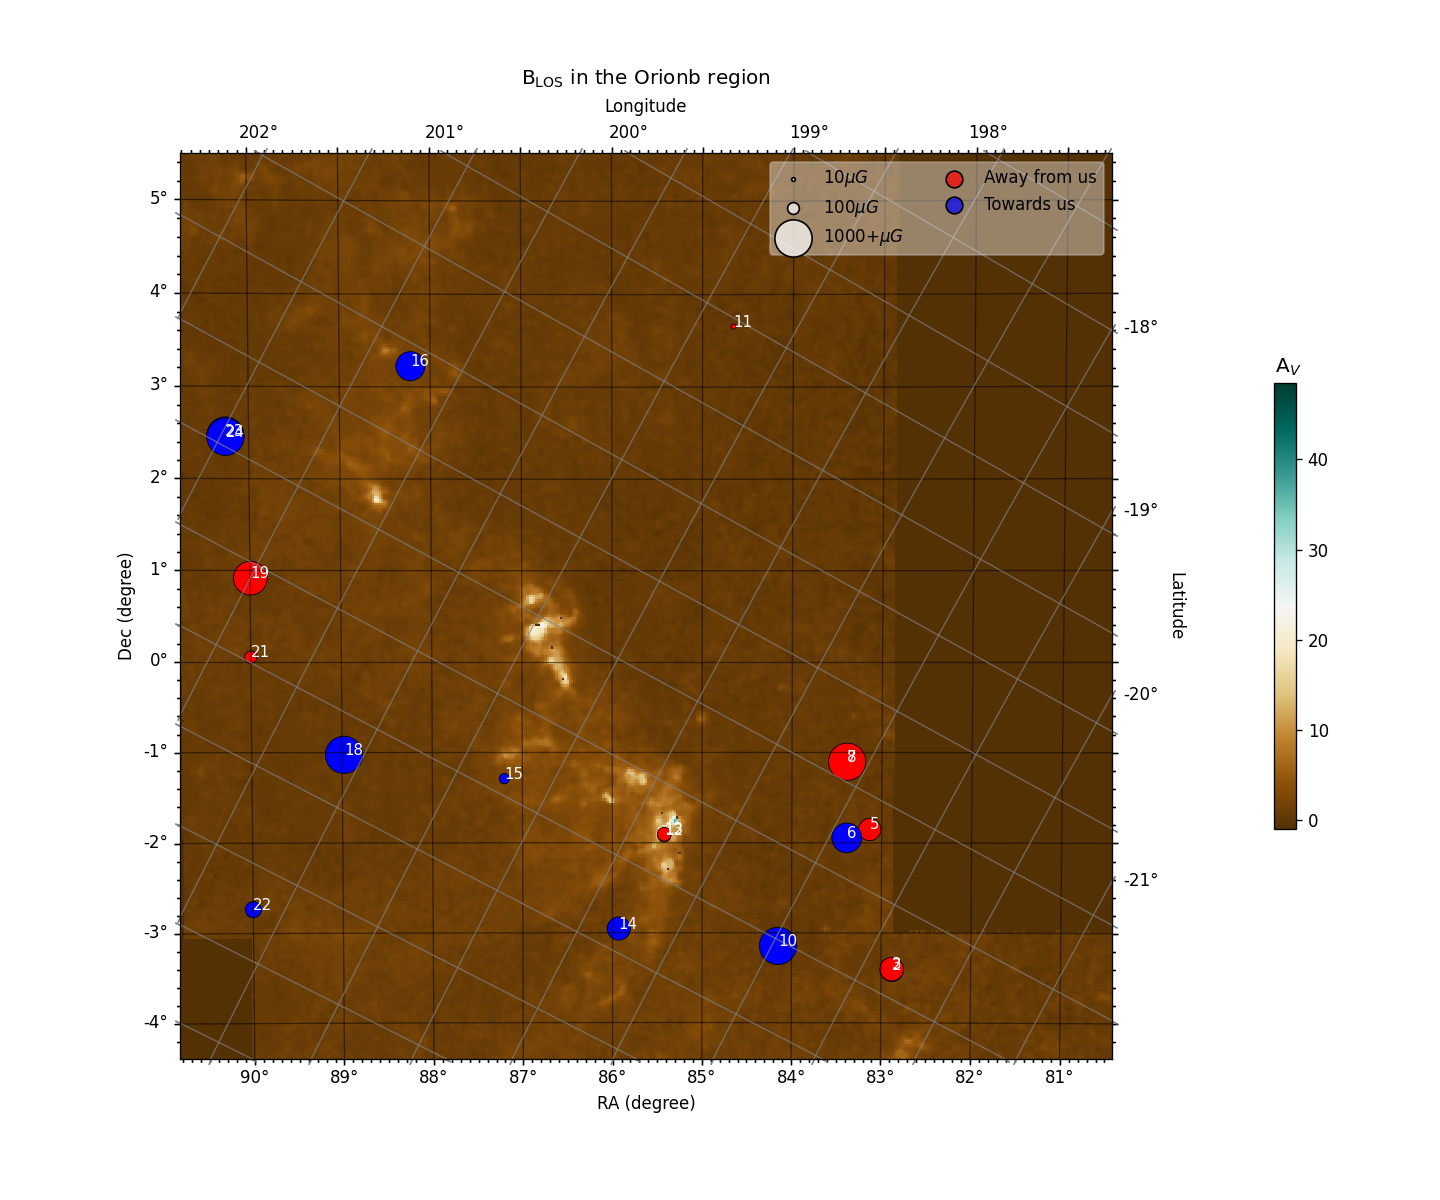
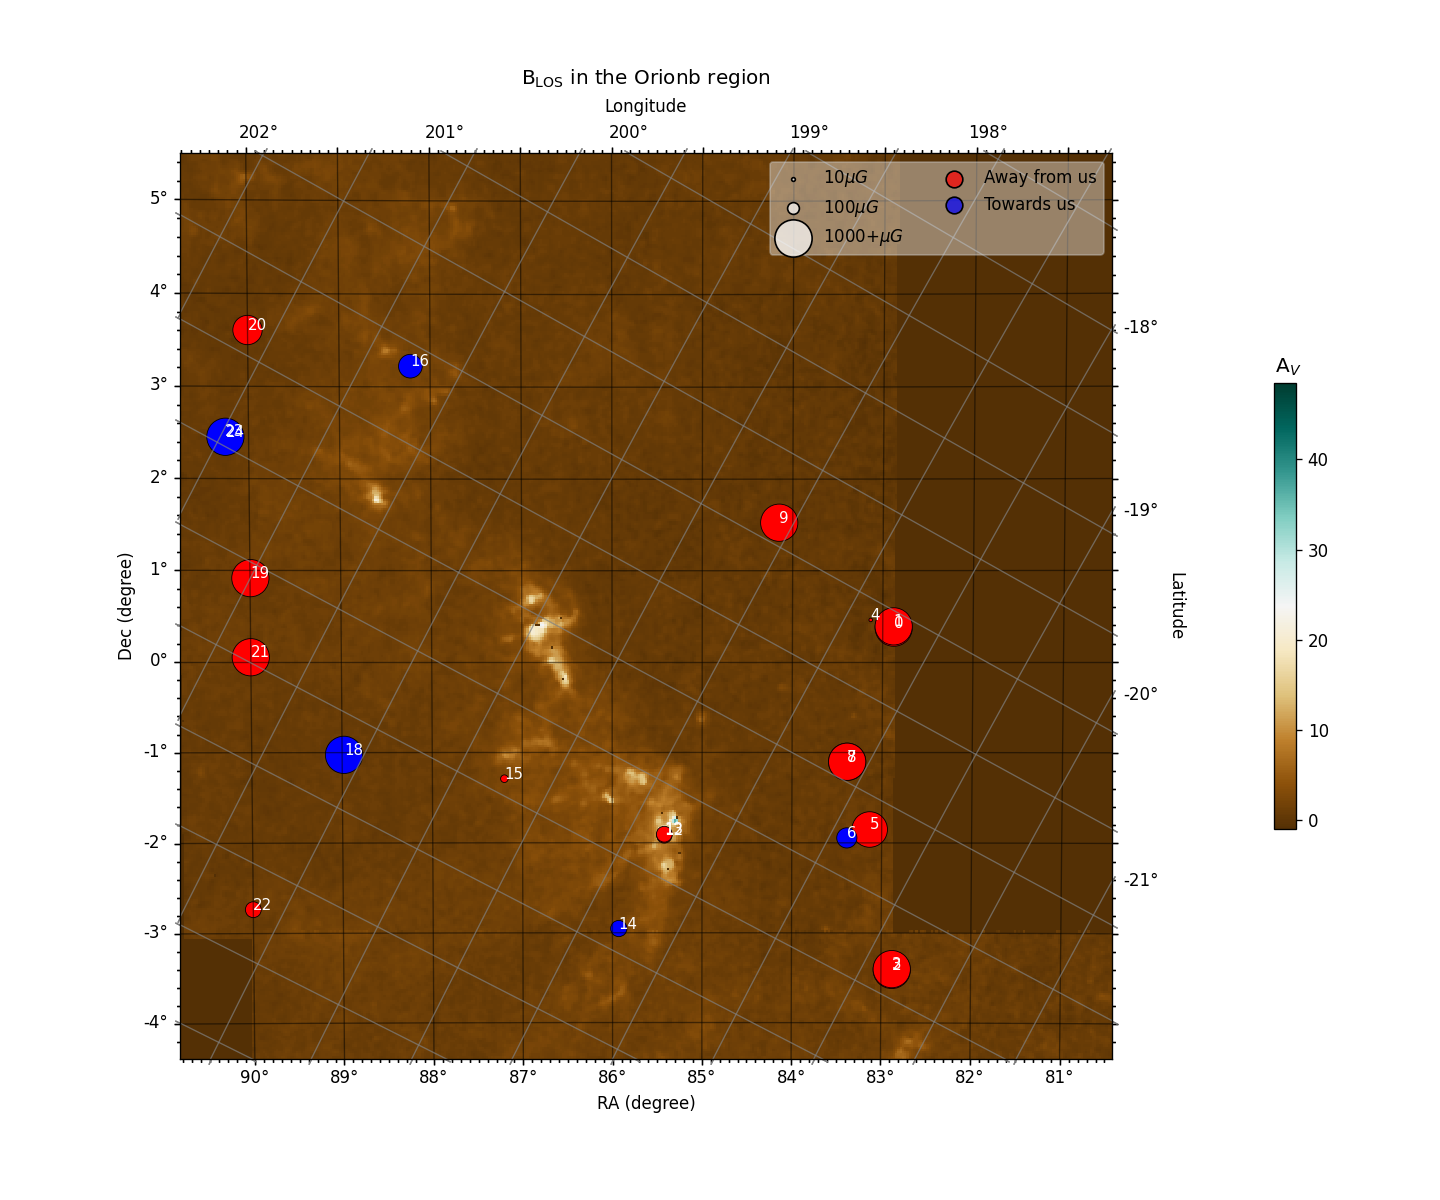
Caught and resolved a number of logical bugs arrising from my prior refactoring.

diff --git a/MolecularClouds/03dDetermineRefPoints - HighExtinction.py b/MolecularClouds/03dDetermineRefPoints - HighExtinction.py
@@ -51,8 +51,10 @@ cloudJeansLength = regionOfInterest.jeanslength  # [pc]
 minDiff = np.degrees(np.arctan(cloudJeansLength / cloudDistance))  # [deg]
 
 minDiff_pix = minDiff / abs(hdu.header['CDELT1'])
-NDelt = config.pixelCheckMultiplier * math.ceil(minDiff_pix)  # Round up
-print("\t-A region around the point has been defined to the suggested {} pixels".format(NDelt))
+NDeltNear = config.nearExtinctionMultiplier * math.ceil(minDiff_pix)  # Round up
+NDeltFar = config.farExtinctionMultiplier * math.ceil(minDiff_pix)  # Round up
+print("\t-A close region around the point has been defined to the suggested {} pixels".format(NDeltNear))
+print("\t-A far region around the point has been defined to the suggested {} pixels".format(NDeltFar))
 
 # Choose the minimum extinction value which you want to correspond to an "on" position
 highExtinctionThreshold = config.highExtinctionThreshMultiplier * Av_threshold
@@ -63,15 +65,15 @@ print("\t-A region of high extinction has been defined to the suggested suggeste
 # -------- For each potential reference point
 nearHighExtinctionRegion = []
 farHighExtinctionRegion = []
-for i in list(AllPotentialRefPoints.head().index):
+for i in list(AllPotentialRefPoints.index):
     idNum = AllPotentialRefPoints['ID#'][i]
     px = AllPotentialRefPoints['Extinction_Index_x'][i]
     py = AllPotentialRefPoints['Extinction_Index_y'][i]
 
     # ---- Find the extinction range for the given point
-    if rjl.nearHighExtinction(px, py, hdu.data, NDelt, highExtinctionThreshold):
+    if rjl.nearHighExtinction(px, py, hdu.data, NDeltNear, highExtinctionThreshold):
         nearHighExtinctionRegion.append(i + 1)
-    if not rjl.nearHighExtinction(px, py, hdu.data, NDelt * 2, highExtinctionThreshold):
+    if not rjl.nearHighExtinction(px, py, hdu.data, NDeltFar, highExtinctionThreshold):
         farHighExtinctionRegion.append(i + 1)
     # ---- Find the extinction range for the given point.
 # -------- For each potential reference point.

diff --git a/MolecularClouds/LocalLibraries/FindOptimalRefPoints.py b/MolecularClouds/LocalLibraries/FindOptimalRefPoints.py
@@ -165,6 +165,8 @@ class FindOptimalRefPoints:
         DataNoRef.to_csv(
             os.path.join(config.dir_root, config.dir_fileOutput, config.prefix_OptRefPoints + config.cloud + '.txt'))
 
+        stabilityTrendGraph(DataNoRef, saveFigurePath)
+
         TotalNumPoints = len(matchedRMExtinctionData)
         '''
         We can now determine the optimal number of reference points using the calculated BLOS values as a function of 
@@ -190,14 +192,15 @@ class FindOptimalRefPoints:
             Optimal_NumRefPoints_secondMode_percent = (len(
                 np.where(Optimal_NumRefPoints_Selection == self.Optimal_NumRefPoints_secondMode)[0]) / len(
                 Optimal_NumRefPoints_Selection)) * 100
+            print('\t - {} appears second most often ({:.0f}%) as the optimal number of reference points'.format(
+                self.Optimal_NumRefPoints_secondMode, Optimal_NumRefPoints_secondMode_percent))
 
         self.Optimal_NumRefPoints_max = max(Optimal_NumRefPoints_Selection)
         self.Optimal_NumRefPoints_min = min(Optimal_NumRefPoints_Selection)
 
         print('\t - {} appears most often ({:.0f}%) as the optimal number of reference points'.format(
             self.Optimal_NumRefPoints_firstMode, Optimal_NumRefPoints_firstMode_percent))
-        print('\t - {} appears second most often ({:.0f}%) as the optimal number of reference points'.format(
-            self.Optimal_NumRefPoints_secondMode, Optimal_NumRefPoints_secondMode_percent))
+
         print('\t - {} is the maximum optimal number of reference points.'.format(
             self.Optimal_NumRefPoints_max))
         print('\t - {} is the minimum optimal number of reference points.'.format(

diff --git a/MolecularClouds/LocalLibraries/config.py b/MolecularClouds/LocalLibraries/config.py
@@ -11,7 +11,8 @@ cloud = configStartSettings['Cloud'].get('Cloud')
 offDiskLatitude = configStartSettings['Judgement'].getfloat('Off Disk Latitude')
 onDiskAvThresh = configStartSettings['Judgement'].getfloat('On Disk Extinction Threshold')
 offDiskAvThresh = configStartSettings['Judgement'].getfloat('Off Disk Extinction Threshold')
-pixelCheckMultiplier = configStartSettings['Judgement'].getint('Pixel Check Range Multiplier')
+nearExtinctionMultiplier = configStartSettings['Judgement'].getint('Near High Extinction Multiplier')
+farExtinctionMultiplier = configStartSettings['Judgement'].getint('Far High Extinction Multiplier')
 highExtinctionThreshMultiplier = configStartSettings['Judgement'].getfloat('High Extinction Threshold Multiplier')
 anomalousSTDNum = configStartSettings['Judgement'].getfloat('Anomalous Values Standard Deviation')
 # -------- DEFINE STARTING VARIABLES. --------

diff --git a/MolecularClouds/03fDetermineRefPoints - PointSelectionAndStabilityReassessment.py b/MolecularClouds/03fDetermineRefPoints - PointSelectionAndStabilityReassessment.py
@@ -105,7 +105,7 @@ mPerp, bPerp = rjl.getPerpendicularLine(cloudCenterX, cloudCenterY, m)
 # -------- FIND REGIONS TO SPLIT THE CLOUD INTO. --------
 
 # -------- SORT REF POINTS INTO THESE REGIONS. --------
-Q1, Q2, Q3, Q4 = rjl.sortQuadrants(list(chosenRefPoints.head().index), chosenRefPoints['Extinction_Index_x'], chosenRefPoints['Extinction_Index_y'], m, b, mPerp, bPerp)
+Q1, Q2, Q3, Q4 = rjl.sortQuadrants(list(chosenRefPoints.index), chosenRefPoints['Extinction_Index_x'], chosenRefPoints['Extinction_Index_y'], m, b, mPerp, bPerp)
 # ---- Sort into quadrant
 # -------- SORT REF POINTS INTO THESE REGIONS. --------
 

diff --git a/MolecularClouds/03cDetermineRefPoints - SortPointsToQuadrants.py b/MolecularClouds/03cDetermineRefPoints - SortPointsToQuadrants.py
@@ -49,7 +49,7 @@ y2 = mPerp * x + bPerp
 # -------- FIND REGIONS TO SPLIT THE CLOUD INTO. --------
 
 # -------- SORT REF POINTS INTO THESE REGIONS. --------
-Q1, Q2, Q3, Q4 = rjl.sortQuadrants(list(AllPotentialRefPoints.head().index), AllPotentialRefPoints['Extinction_Index_x'], AllPotentialRefPoints['Extinction_Index_y'], m, b, mPerp, bPerp)
+Q1, Q2, Q3, Q4 = rjl.sortQuadrants(list(AllPotentialRefPoints.index), AllPotentialRefPoints['Extinction_Index_x'], AllPotentialRefPoints['Extinction_Index_y'], m, b, mPerp, bPerp)
 # ---- Sort into quadrant
 # -------- SORT REF POINTS INTO THESE REGIONS. --------
 

diff --git a/MolecularClouds/03eDetermineRefPoints - AnomalousPoint.py b/MolecularClouds/03eDetermineRefPoints - AnomalousPoint.py
@@ -49,7 +49,7 @@ print("\t-Anomalous rotation measure values have been defined to be greater or l
 
 # -------- For each potential reference point
 anomalousRMIndex = []
-for i in list(AllPotentialRefPoints.head().index):
+for i in list(AllPotentialRefPoints.index):
     idNum = AllPotentialRefPoints['ID#'][i]
     if AllPotentialRefPoints['Rotation_Measure(rad/m2)'][i] < rm_lowerLimit or \
             AllPotentialRefPoints['Rotation_Measure(rad/m2)'][i] > rm_upperLimit:

diff --git a/MolecularClouds/00ConfigureDirInfo.py b/MolecularClouds/00ConfigureDirInfo.py
@@ -11,7 +11,8 @@ configStartSettings['Judgement'] = {
     'Off Disk Latitude': 15.,
     'On Disk Extinction Threshold': 2.,
     'Off Disk Extinction Threshold': 1.,
-    'Pixel Check Range Multiplier': 2,
+    'Near High Extinction Multiplier': 2,
+    'Far High Extinction Multiplier': 14,
     'High Extinction Threshold Multiplier': 5,
     'Anomalous Values Standard Deviation': 3.
     }
